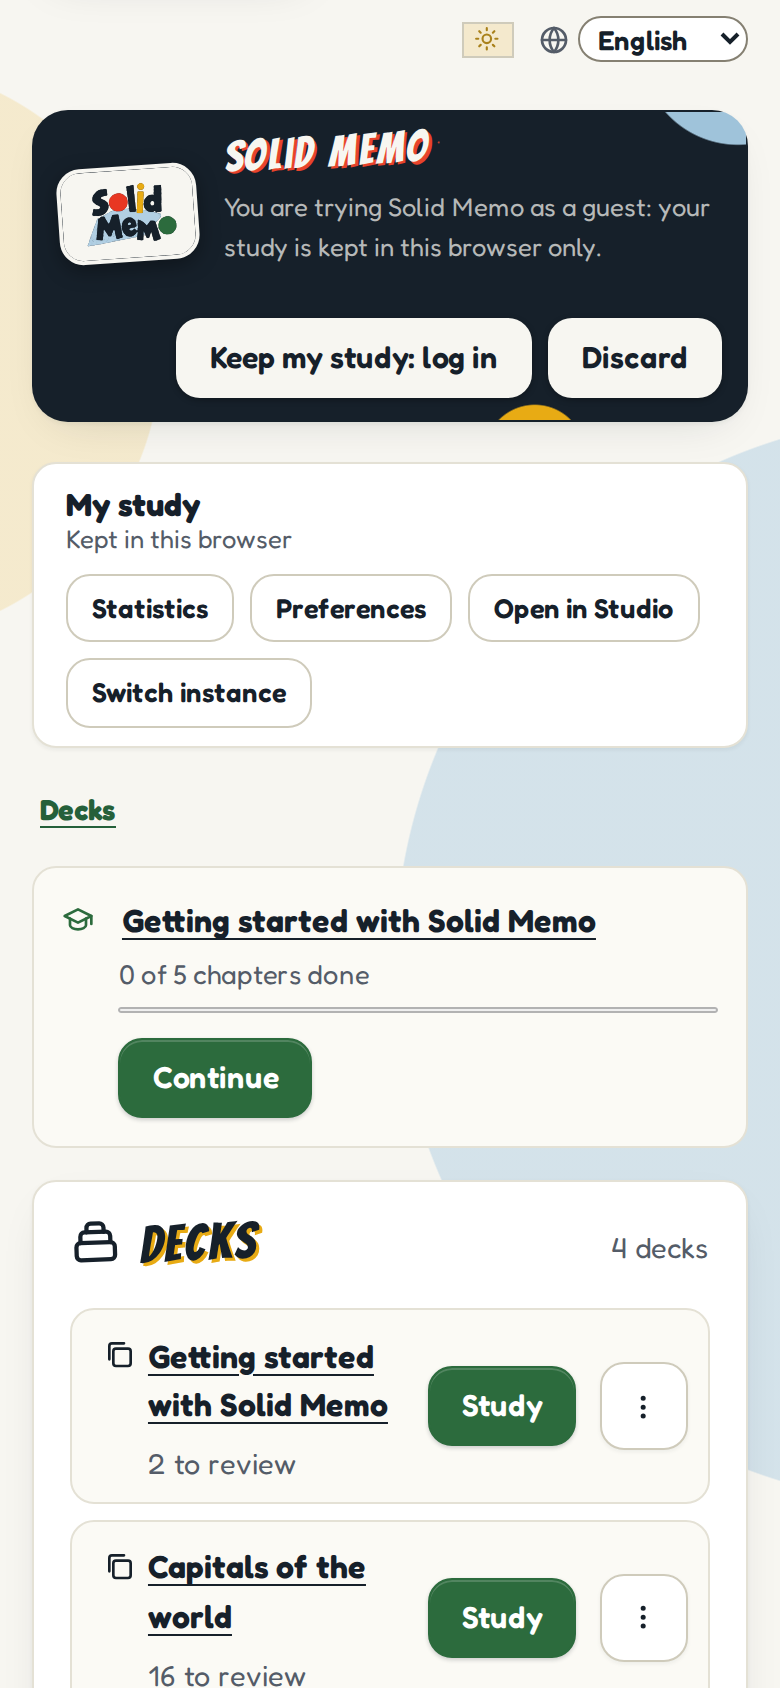
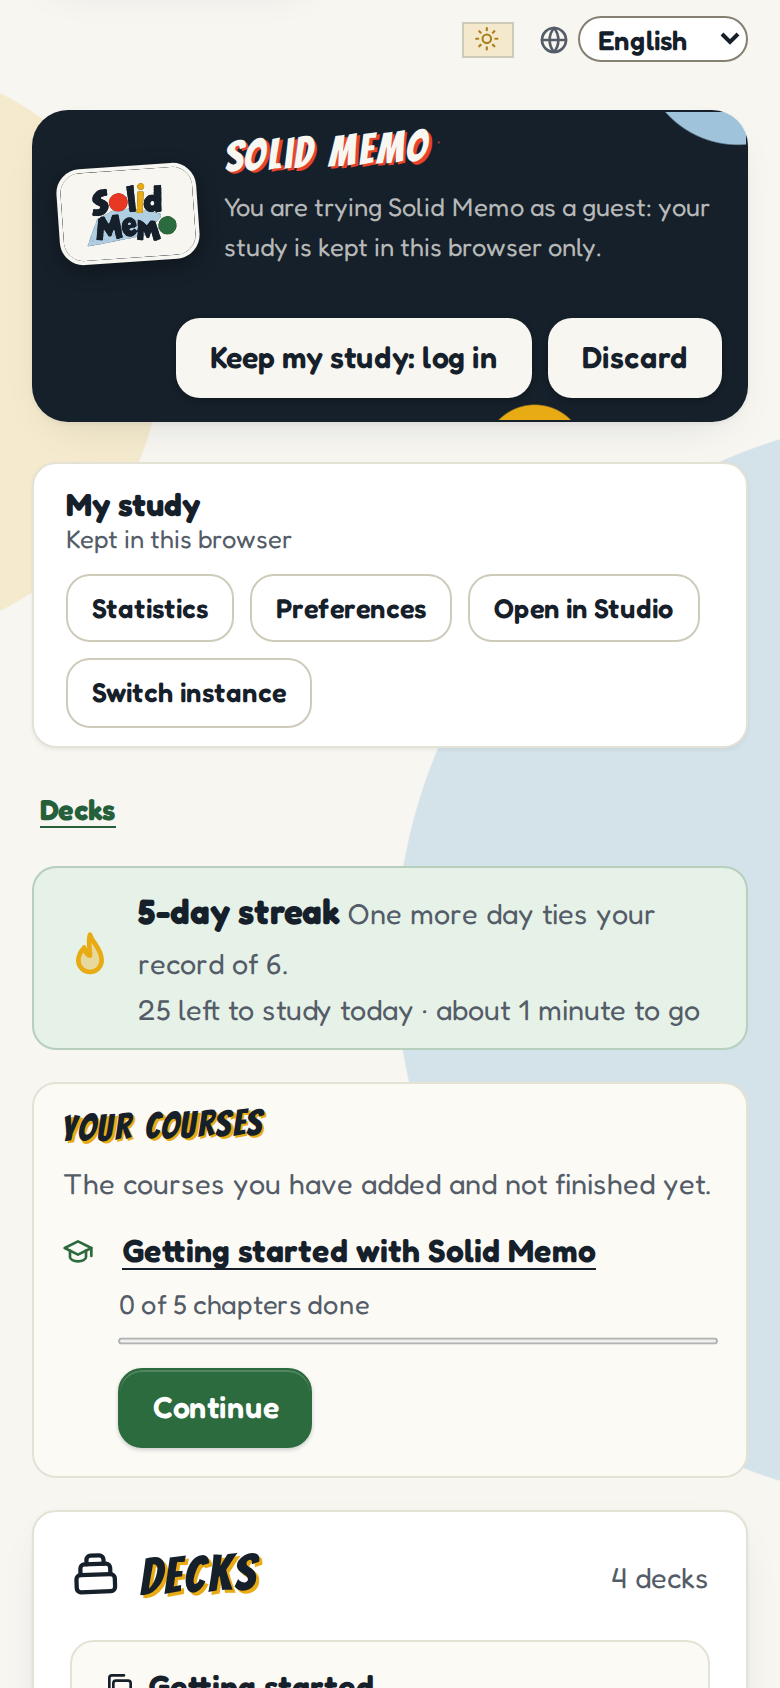
feat(ui): head the course strip and say what it holds
The courses above the deck list sat in a box with no visible heading:
its name, "Your courses", was only the aside's aria-label, so a sighted
learner saw titles and buttons with nothing saying they are courses,
or why these ones are there and the same titles show again in the deck
list below. The strip now has an h2 "Your courses", which names the
aside, and a line saying it holds the courses added and not finished
yet, in every app language. The line covers a course not yet started
too, which the strip offers with a Start button. The deck list's
screenshot is retaken to show it.

Closes: #224

diff --git a/packages/ui/src/ui/CourseStrip.tsx b/packages/ui/src/ui/CourseStrip.tsx
@@ -2,6 +2,7 @@
 //
 // SPDX-License-Identifier: MIT
 
+import { useId } from "preact/hooks";
 import { useQueries } from "@tanstack/react-query";
 import type { UseCases } from "@solid-memo/application/useCases";
 import type { Deck } from "@solid-memo/domain/deck";
@@ -32,15 +33,19 @@ export interface CourseStripEntry {
 
 /**
  * The courses the learner has started and not finished, in a strip
- * above the deck list, so going on with one is never a menu away: each
- * with its title (to the course's page), how many chapters are done,
- * and a button to go on where they left off.
+ * above the deck list, so going on with one is never a menu away: under
+ * a heading that says what they are and why they are there, each with
+ * its title (to the course's page), how many chapters are done, and a
+ * button to go on where they left off.
  */
 export function CourseStrip({ entries }: { entries: readonly CourseStripEntry[] }) {
   const { t, readerText } = useI18n();
+  const headingId = useId();
   if (entries.length === 0) return null;
   return (
-    <aside class="course-strip" aria-label={t("deckList.courses")}>
+    <aside class="course-strip" aria-labelledby={headingId}>
+      <h2 id={headingId}>{t("deckList.courses")}</h2>
+      <p class="hint">{t("deckList.coursesHint")}</p>
       <ul>
         {entries.map((entry) => (
           <li key={entry.key}>

diff --git a/packages/ui/src/style.css b/packages/ui/src/style.css
@@ -4288,14 +4288,25 @@ p[role="status"]:not(.loading) {
   }
 }
 
-/* The courses to go on with, above the deck list: each its title and the
-   chapters done beside its button, so the title wraps before the button. */
+/* The courses to go on with, above the deck list, under a heading and a
+   line on what they are: each its title and the chapters done beside its
+   button, so the title wraps before the button. */
 .course-strip {
   margin: 0 0 1rem;
   padding: 0.5rem 0.9rem;
   background: var(--surface-sunken);
   border: 1px solid var(--border);
   border-radius: var(--radius);
+}
+
+/* Smaller than a screen's heading, such as the deck list's below it. */
+.course-strip h2 {
+  font-size: 1.15rem;
+  margin: 0.3rem 0 0.35rem;
+}
+
+.course-strip > .hint {
+  margin: 0 0 0.25rem;
 }
 
 .course-strip ul {
@@ -4337,7 +4348,7 @@ p[role="status"]:not(.loading) {
   grid-row: 1 / span 3;
 }
 
-.course-strip .hint {
+.course-strip li .hint {
   padding-left: 1.75rem;
   font-size: 0.85rem;
 }

diff --git a/packages/ui/src/ui/CourseStrip.test.tsx b/packages/ui/src/ui/CourseStrip.test.tsx
@@ -3,7 +3,7 @@
 // SPDX-License-Identifier: MIT
 
 import { describe, expect, it } from "vitest";
-import { render, screen } from "@testing-library/preact";
+import { render, screen, within } from "@testing-library/preact";
 import { CourseStrip, type CourseStripEntry } from "./CourseStrip";
 
 const entry = (fields: Partial<CourseStripEntry> = {}): CourseStripEntry => ({
@@ -21,6 +21,8 @@ describe("CourseStrip", () => {
   it("shows each course's title, the chapters done, and a button to go on", () => {
     render(<CourseStrip entries={[entry()]} />);
     const strip = screen.getByRole("complementary", { name: "Your courses" });
+    expect(within(strip).getByRole("heading", { level: 2, name: "Your courses" })).toBeVisible();
+    expect(strip).toHaveTextContent("The courses you have added and not finished yet.");
     expect(strip).toHaveTextContent("1 of 3 chapters done");
     expect(screen.getByRole("link", { name: "Solid fundamentals" })).toHaveAttribute(
       "href",

diff --git a/apps/web/public/about/index.html b/apps/web/public/about/index.html
@@ -251,7 +251,7 @@
         <li>
           <figure>
             <img src="../screenshots/decks.png" width="780" height="1688"
-              alt="A guest's deck list on a phone: a banner saying the study is kept in this browser only, with buttons to log in and keep it or to discard it, the course Getting started with Solid Memo to continue, then the decks, each with how many cards are left to review and a Study button." />
+              alt="A guest's deck list on a phone: a banner saying the study is kept in this browser only, with buttons to log in and keep it or to discard it, under the heading Your courses, the course Getting started with Solid Memo to continue, then the decks, each with how many cards are left to review and a Study button." />
             <figcaption>Your decks</figcaption>
           </figure>
         </li>

diff --git a/README.md b/README.md
@@ -55,7 +55,7 @@ barrier are in [docs/accessibility.md](docs/accessibility.md).
 
 | Your decks | Studying a card | A course's chapter |
 | --- | --- | --- |
-| ![A guest's deck list on a phone: a banner saying the study is kept in this browser only, with buttons to log in and keep it or to discard it, the course Getting started with Solid Memo to continue, then the decks, each with how many cards are left to review and a Study button.](apps/web/public/screenshots/decks.png) | ![A study session of the deck Famous paintings on a phone: Caspar David Friedrich's Wanderer above the Sea of Fog on the card's front, its title, painter and date revealed below it, and buttons from 0 to 5 to grade the answer.](apps/web/public/screenshots/study.png) | ![A question in the chapter How studying works on a phone, step 2 of 3: four answers to What does an ordinary Solid Memo study session hold?, the right one chosen and marked Right answer, and the card it adds to the deck, with its explanation, above a Next button.](apps/web/public/screenshots/course-chapter.png) |
+| ![A guest's deck list on a phone: a banner saying the study is kept in this browser only, with buttons to log in and keep it or to discard it, under the heading Your courses, the course Getting started with Solid Memo to continue, then the decks, each with how many cards are left to review and a Study button.](apps/web/public/screenshots/decks.png) | ![A study session of the deck Famous paintings on a phone: Caspar David Friedrich's Wanderer above the Sea of Fog on the card's front, its title, painter and date revealed below it, and buttons from 0 to 5 to grade the answer.](apps/web/public/screenshots/study.png) | ![A question in the chapter How studying works on a phone, step 2 of 3: four answers to What does an ordinary Solid Memo study session hold?, the right one chosen and marked Right answer, and the card it adds to the deck, with its explanation, above a Next button.](apps/web/public/screenshots/course-chapter.png) |
 | **The deck library** | **Your progress** | **Study activity** |
 | ![The deck library on a phone, searched for famous: the decks found, each with its number of cards and a Preview button, one marked Already imported, two checked, and an Import 2 decks button.](apps/web/public/screenshots/library.png) | ![The statistics' overview on a phone, of the last 3 months: answers, study days, cards studied, cards known, the current and longest streak, and how many of the last 30 days were study days.](apps/web/public/screenshots/statistics.png) | ![The statistics' activity on a phone: a bar chart of what each of the last 30 days held, remembered, new, lapses and repeats, over a chart of answers by weekday.](apps/web/public/screenshots/activity.png) |
 

diff --git a/docs/user-guide.md b/docs/user-guide.md
@@ -116,9 +116,10 @@ The deck list is home. From the top:
   today keeps, a note on it that changes from day to day, and the cards
   left to study today. Once a streak has lapsed, a gentle note to start
   a new one.
-- **Your courses**: each course you have started and not finished, how
-  many of its chapters are done, and a button to go on where you left
-  off ([courses.md](courses.md#the-learners-flow)).
+- **Your courses**: each course you have added and not finished,
+  started or not, how many of its chapters are done, and a button to
+  start it or go on where you left off
+  ([courses.md](courses.md#the-learners-flow)).
 - **Try FSRS-6**: while your instance schedules with SM-2, an
   invitation to switch to FSRS-6, the recommended scheduler: its
   intervals differ clearly by your answer, and it adapts to how late you

diff --git a/docs/courses.md b/docs/courses.md
@@ -160,7 +160,9 @@ new type-index entries ([data-model.md](data-model.md#courses)):
    as it does a library course (`useCopies`). Until every chapter is
    completed, the course is offered above the deck list, with its
    chapters done and a button to go on where the learner left off; a
-   course deck's menu leads to its page too.
+   course deck's menu leads to its page too. The strip it is in is
+   headed "Your courses", with a line saying these are the courses
+   added and not finished yet.
 2. **A step.** A step comes in two phases. First the learner reads the
    theory, with no question shown. Theory in chunks is read one chunk
    at a time, starting at the first: "Part 2 of 3" says where the
